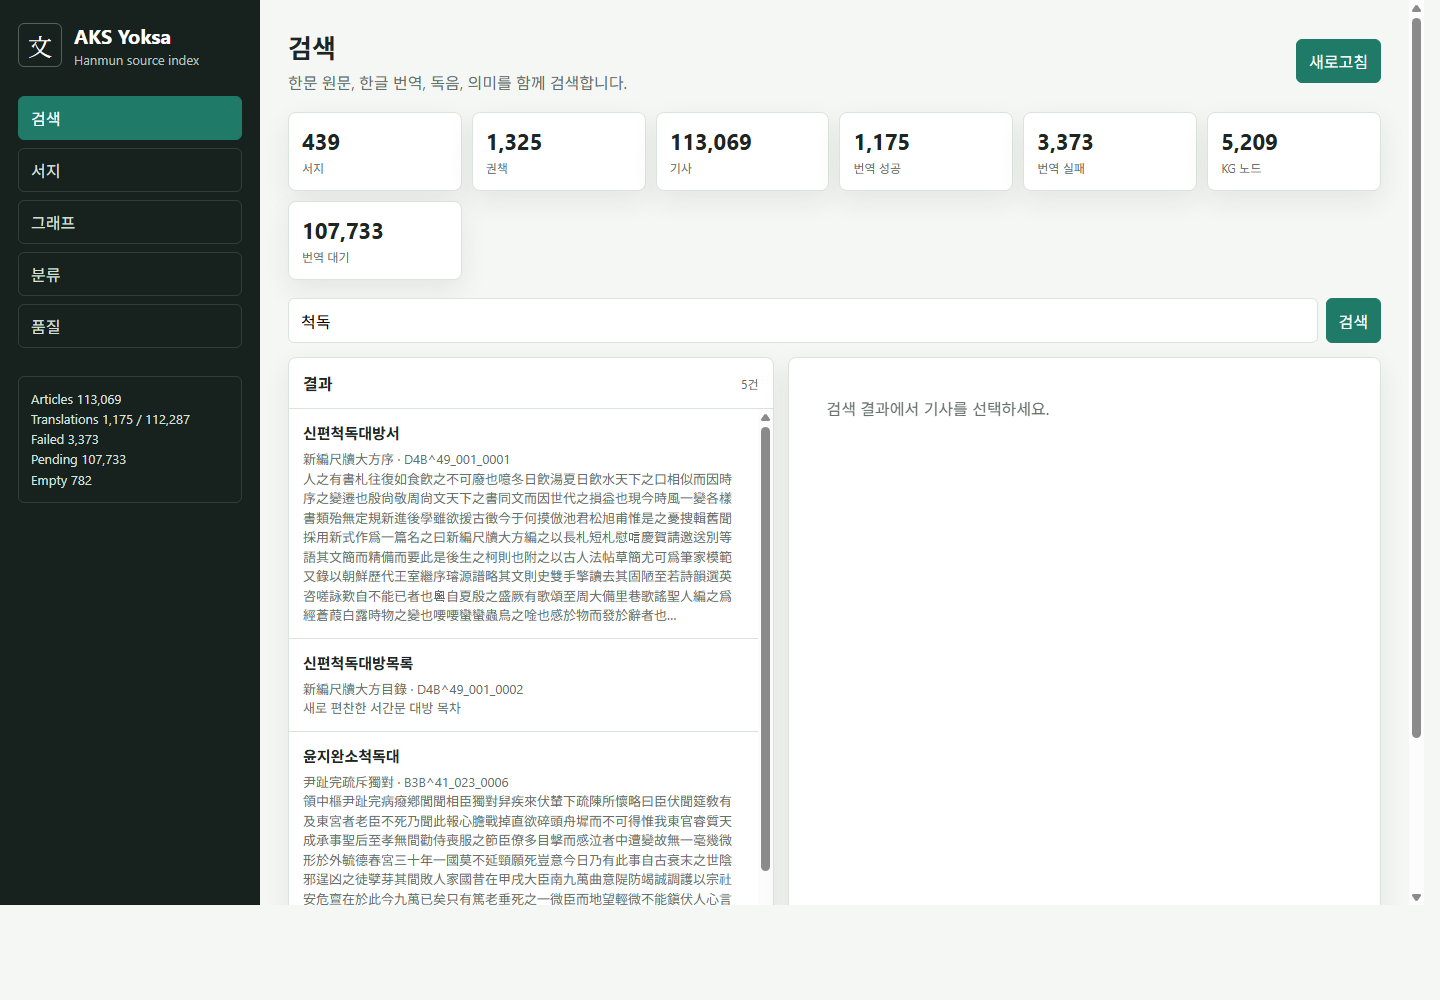
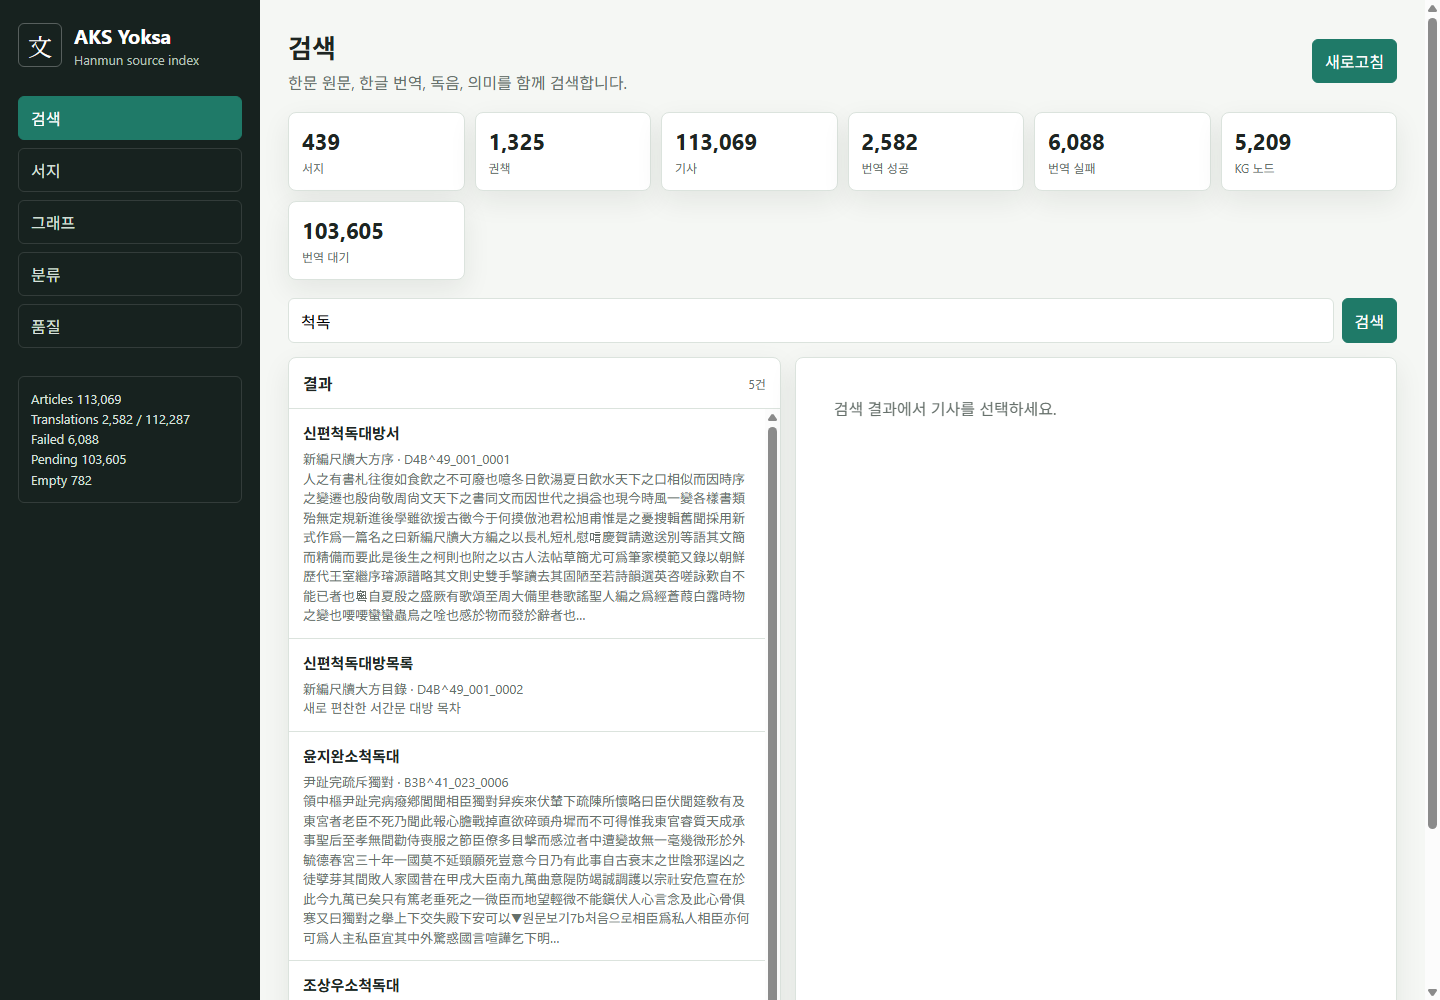
Refresh AKS Yoksa morning progress

diff --git a/STATUS.md b/STATUS.md
@@ -1,6 +1,6 @@
 # Progress Status
 
-Snapshot time: 2026-05-12 18:20 KST
+Snapshot time: 2026-05-13 08:28 KST
 
 ## Source Tree
 
@@ -11,10 +11,10 @@ Snapshot time: 2026-05-12 18:20 KST
 
 ## Translation Queue
 
-- Pending: 107,397
+- Pending: 103,605
 - Running: 3
-- OK: 1,206
-- Failed: 3,681
+- OK: 2,589
+- Failed: 6,090
 - Total: 112,287
 
 ## Dashboard Snapshot

diff --git a/README.md b/README.md
@@ -29,8 +29,8 @@
 - 권책: 1,325건
 - 기사: 113,150건
 - 본문 있는 번역 대상: 112,287건
-- 최근 스냅샷 기준 번역 성공: 1,206건
-- 최근 스냅샷 기준 번역 실패: 3,681건
+- 최근 스냅샷 기준 번역 성공: 2,589건
+- 최근 스냅샷 기준 번역 실패: 6,090건
 - 지식 그래프 색인: 노드 5,209개, 엣지 9,300개
 
 ## 진행 화면
@@ -92,4 +92,4 @@ The intended MiMo usage includes:
 
 This is not a final corpus release. It is a progress snapshot for transparent review, model-credit application, and continued public versioning.
 
-The latest dashboard snapshot shows 1,206 completed translations, 3,681 preserved failed attempts, 107,397 pending jobs, and a rebuilt knowledge-graph index with 5,209 nodes and 9,300 edges.
+The latest dashboard snapshot shows 2,589 completed translations, 6,090 preserved failed attempts, 103,605 pending jobs, and a rebuilt knowledge-graph index with 5,209 nodes and 9,300 edges.